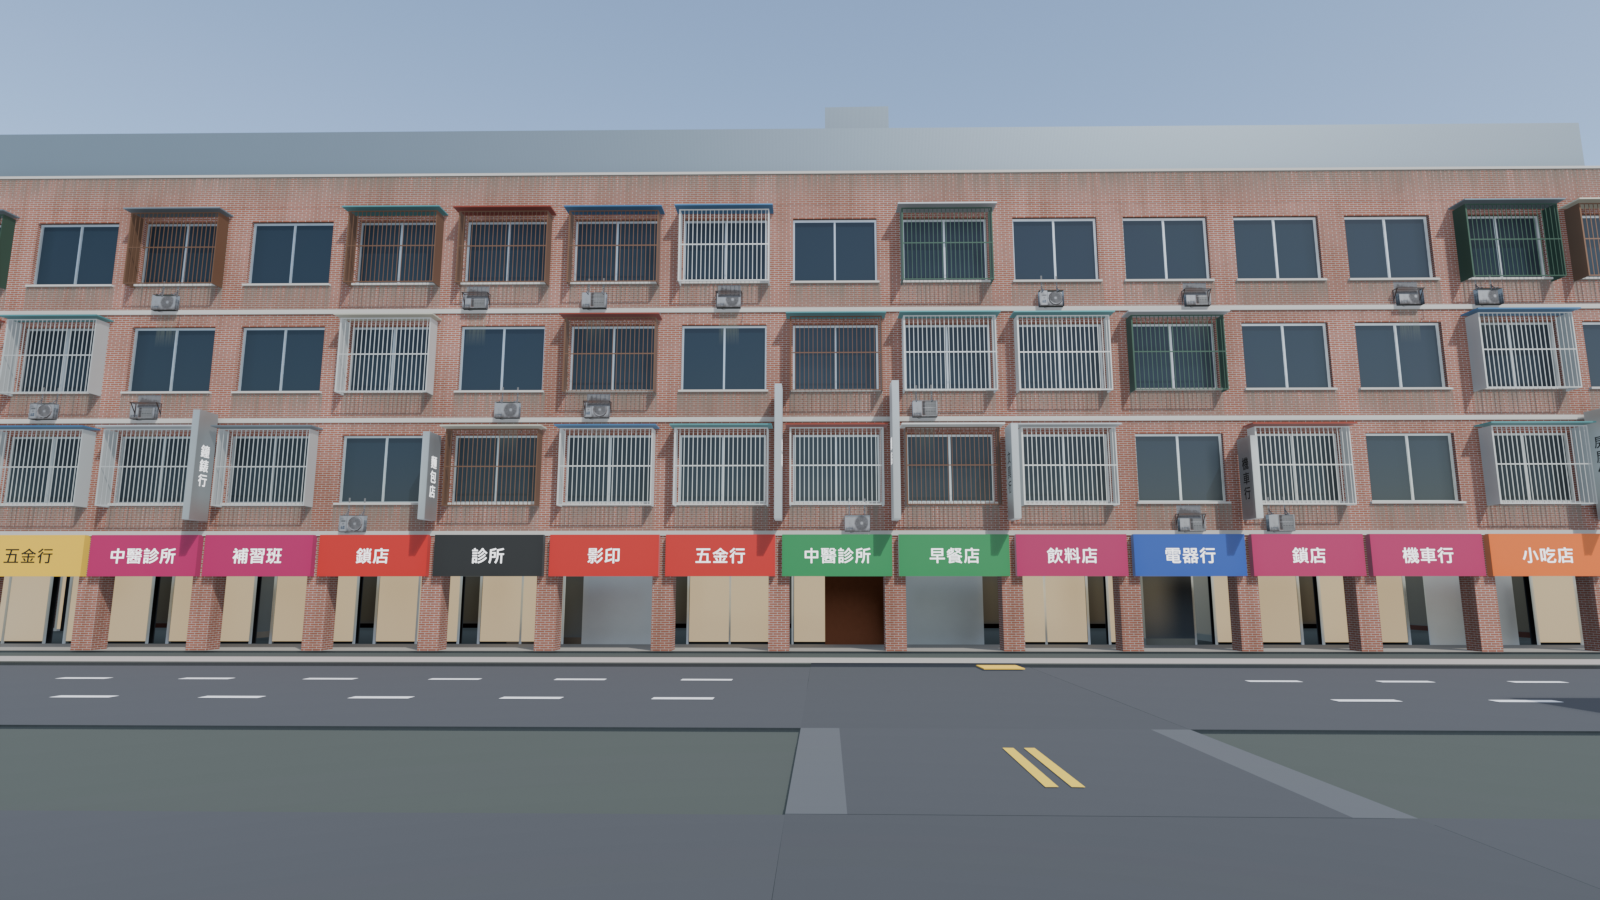
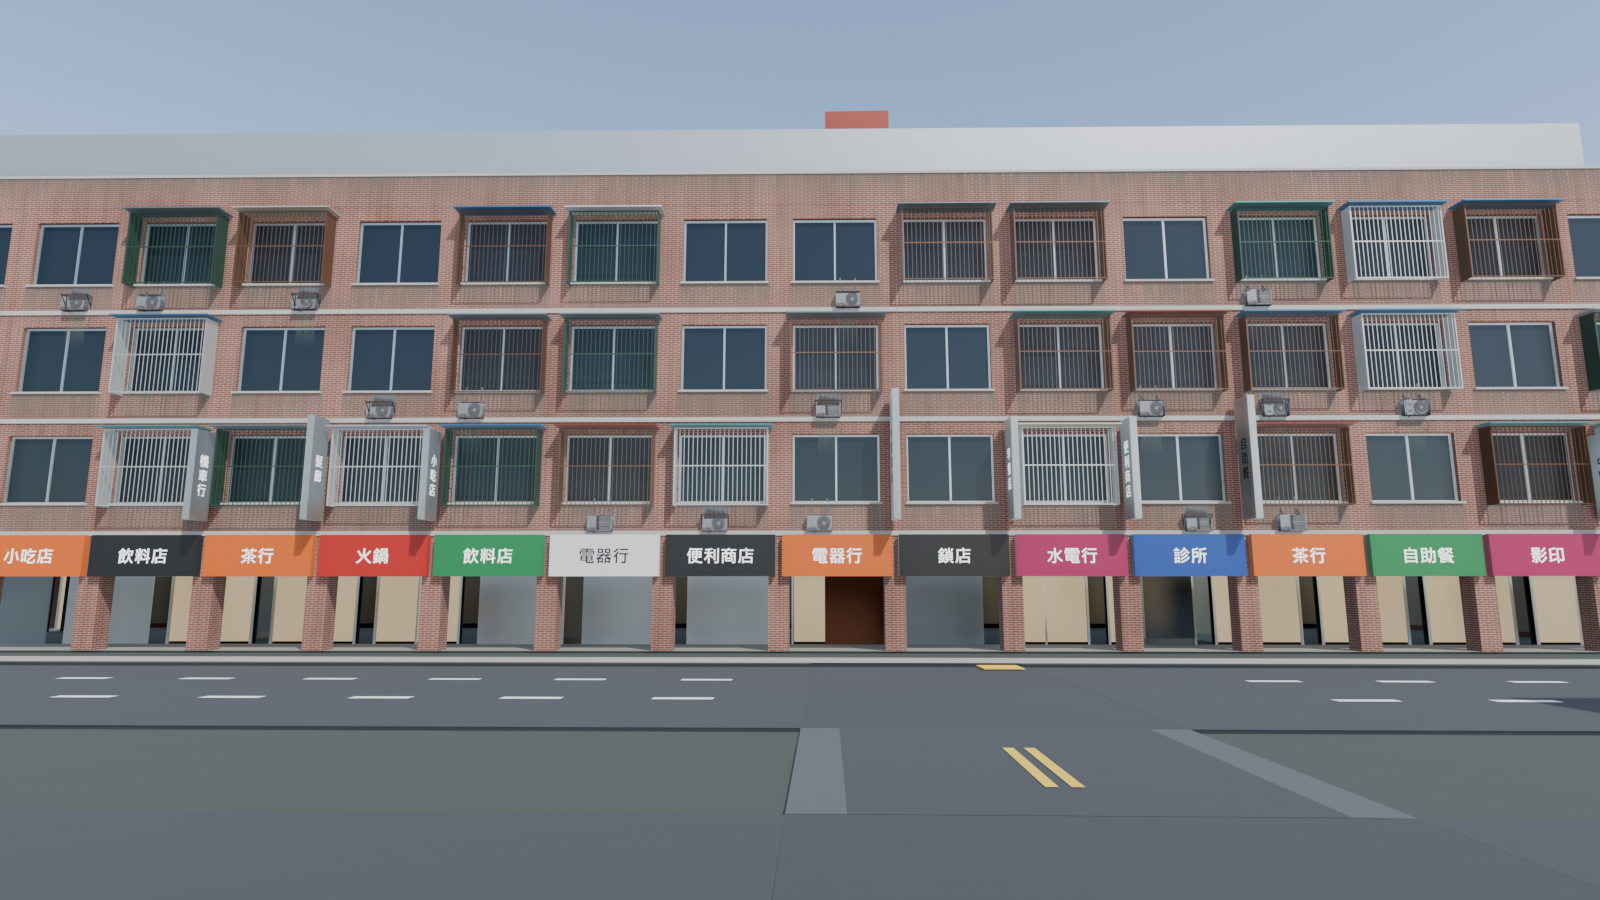
消防局斜對面八千代大樓與永吉路30巷街廓補建
- 八千代大樓（OSM 忠孝經貿廣場）官方 LOD1 缺臨街與西側牆、只剩兩片薄牆，改依官方牆面外緣補建完整塔樓並取代 288806、288716
- 永吉路30巷兩側三列連棟公寓官方只剩樓梯間，依 OSM 外框補建（71巷3弄北側五層、178號南側四層、178號北側五層）；樓梯間保留為屋頂樓梯間
- 東側粉紅磁磚公寓列（290996）缺南側牆，依 OSM 補建並取代
- Blender 鳥瞰預覽 hq_block_aerial

Changed region(s): [[0.0, 0.1244, 1.0, 0.7156]]

diff --git a/dist/index.html b/dist/index.html
@@ -1,1 +1,1 @@
-<!doctype html><html lang="zh-Hant"><head><meta charset="UTF-8"><meta name="viewport" content="width=device-width,initial-scale=1"><title>火場指揮室｜3D部署訓練</title><link rel="stylesheet" href="style.css"><script type="importmap">{"imports":{"three":"./vendor/three.module.js"}}</script></head><body><header><div class="brand"><span class="badge">119</span><div><strong>火場指揮室</strong><small>中隊長部署訓練 / 情境 01</small></div></div><div class="headright"><span id="state">演練準備</span><b id="clock">00:00</b><button id="play" class="primary">開始演練</button><button id="finish">結束檢討</button></div></header><main><aside class="resources"><div class="eyebrow">現場資源</div><h2>車組部署 <span>04</span></h2><p class="muted">選擇車組，再下達任務。</p><div id="units"></div><div class="brief"><p class="note">依提供的2023年街景重建風貌；非現地測繪。停車示意：沿道路配置，保留入口、行穿線與通行空間。實際停車位置須由指揮官依危害、道路及任務確認；此處未設定安全距離。</p><div class="eyebrow">人員識別</div><p>隊員：深藍消防衣<br>小隊長：深藍衣・手臂一圈紅帶<br>分隊長：深藍衣・手臂兩圈紅帶<br>中隊長：黃色消防衣<br>大隊長：深紅消防衣・黃金盔徽</p><p class="note">點「人員近看」可輪流查看五種角色。</p><div class="eyebrow">派遣資訊</div><h3>富錦街風貌・公寓火警</h3><p>富錦街風貌重建（模擬火災戶）<br>報案指出三樓冒煙，可能有人受困。現場情況待確認。</p><div class="tags"><span>住宅</span><span>日間</span><span>單一建物</span></div></div></aside><section class="world"><div class="sceneheading"><div><div class="eyebrow">現場態勢</div><h1>富錦街・公寓火災</h1></div><span class="live">訓練情境</span></div><div id="viewport"><div id="error" hidden>3D場景無法啟動，請使用支援 WebGL 的瀏覽器重新開啟。</div></div><div class="viewcontrols"><button data-view="overview" class="active">鳥瞰</button><button data-view="street">街道</button><button data-view="section">樓層剖面</button><button id="home">重設視角</button><a class="real-map-link" href="taipei-map.html?place=xinyi" target="_blank" rel="noopener">臺北真實圖資</a><a class="real-map-link" href="xinyi-street.html?v=s66" target="_blank" rel="noopener">信義街景漫遊</a><a class="real-map-link" href="xinyi-street.html?v=s66&amp;at=eoc" target="_blank" rel="noopener">災害應變中心</a></div><div class="scenehint">拖曳旋轉 · 滾輪／雙指縮放 · 點選位置標記</div><div class="legend"><span><i style="background:#47c3ff"></i>車組</span><span><i style="background:#ff9c46"></i>可見煙火</span><span><i style="background:#f6dc8d"></i>部署位置</span></div><div class="objective"><span>指揮流程</span><b>確認資訊 → 分派任務 → 接收回報 → 調整部署</b></div></section><aside class="command"><div class="eyebrow">指揮操作</div><h2 id="selectedName">第一車組</h2><label for="task">指派任務</label><select id="task"><option>搜索</option><option>滅火</option><option>供水</option><option>救護</option><option>待命</option></select><label for="location">部署位置</label><select id="location"><option value="front">建物正面</option><option value="rear">建物後側</option><option value="entry">一樓入口</option><option value="floor">三樓梯間</option><option value="water">供水點</option><option value="medical">救護區</option></select><p id="current" class="muted">目前：未指派</p><button id="assign" class="primary wide">下達部署指令</button><p id="feedback" role="status"></p><div class="divider"></div><div class="eyebrow">開口與通風情境</div><label for="ventilation">開口設定</label><select id="ventilation"><option value="0">維持原有開口</option><option value="0.45">增加三樓對外開口</option><option value="1">增加三樓與上方開口</option></select><button id="applyVent" class="wide" disabled>套用通風設定</button><p id="ventState" class="muted">目前：維持原有開口</p><p class="note">增加開口會同時影響燃燒與排煙，煙變淡不等於火勢變小。原型僅將到位執行「滅火」、位於正面或三樓的車組計為有效射水；未模擬水源、流量、風向與門窗位置。</p><div class="divider"></div><div class="eyebrow">情境進度</div><div id="events"></div><p class="note">火煙與任務進度為腳本示意，供指揮討論；不代表火場物理預測。</p></aside><section class="comms"><div class="loghead"><h2>通訊與指揮紀錄</h2><span id="count">0 筆</span></div><div id="logs" aria-live="polite"></div></section></main><dialog id="review"><div class="modalhead"><div><div class="eyebrow">演練回顧</div><h2>指揮決策時間軸</h2></div><button id="close">關閉</button></div><div id="summary"></div><div id="reviewlogs"></div><p class="note">由教官依單位訓練標準講評。本原型不提供戰術正確性評分。</p><div class="actions"><button id="export">下載演練紀錄</button><button id="reset" class="primary">重新演練</button></div></dialog><script type="module" src="app.js?v=weather-all-20261027"></script></body></html>
+<!doctype html><html lang="zh-Hant"><head><meta charset="UTF-8"><meta name="viewport" content="width=device-width,initial-scale=1"><title>火場指揮室｜3D部署訓練</title><link rel="stylesheet" href="style.css"><script type="importmap">{"imports":{"three":"./vendor/three.module.js"}}</script></head><body><header><div class="brand"><span class="badge">119</span><div><strong>火場指揮室</strong><small>中隊長部署訓練 / 情境 01</small></div></div><div class="headright"><span id="state">演練準備</span><b id="clock">00:00</b><button id="play" class="primary">開始演練</button><button id="finish">結束檢討</button></div></header><main><aside class="resources"><div class="eyebrow">現場資源</div><h2>車組部署 <span>04</span></h2><p class="muted">選擇車組，再下達任務。</p><div id="units"></div><div class="brief"><p class="note">依提供的2023年街景重建風貌；非現地測繪。停車示意：沿道路配置，保留入口、行穿線與通行空間。實際停車位置須由指揮官依危害、道路及任務確認；此處未設定安全距離。</p><div class="eyebrow">人員識別</div><p>隊員：深藍消防衣<br>小隊長：深藍衣・手臂一圈紅帶<br>分隊長：深藍衣・手臂兩圈紅帶<br>中隊長：黃色消防衣<br>大隊長：深紅消防衣・黃金盔徽</p><p class="note">點「人員近看」可輪流查看五種角色。</p><div class="eyebrow">派遣資訊</div><h3>富錦街風貌・公寓火警</h3><p>富錦街風貌重建（模擬火災戶）<br>報案指出三樓冒煙，可能有人受困。現場情況待確認。</p><div class="tags"><span>住宅</span><span>日間</span><span>單一建物</span></div></div></aside><section class="world"><div class="sceneheading"><div><div class="eyebrow">現場態勢</div><h1>富錦街・公寓火災</h1></div><span class="live">訓練情境</span></div><div id="viewport"><div id="error" hidden>3D場景無法啟動，請使用支援 WebGL 的瀏覽器重新開啟。</div></div><div class="viewcontrols"><button data-view="overview" class="active">鳥瞰</button><button data-view="street">街道</button><button data-view="section">樓層剖面</button><button id="home">重設視角</button><a class="real-map-link" href="taipei-map.html?place=xinyi" target="_blank" rel="noopener">臺北真實圖資</a><a class="real-map-link" href="xinyi-street.html?v=s67" target="_blank" rel="noopener">信義街景漫遊</a><a class="real-map-link" href="xinyi-street.html?v=s67&amp;at=eoc" target="_blank" rel="noopener">災害應變中心</a></div><div class="scenehint">拖曳旋轉 · 滾輪／雙指縮放 · 點選位置標記</div><div class="legend"><span><i style="background:#47c3ff"></i>車組</span><span><i style="background:#ff9c46"></i>可見煙火</span><span><i style="background:#f6dc8d"></i>部署位置</span></div><div class="objective"><span>指揮流程</span><b>確認資訊 → 分派任務 → 接收回報 → 調整部署</b></div></section><aside class="command"><div class="eyebrow">指揮操作</div><h2 id="selectedName">第一車組</h2><label for="task">指派任務</label><select id="task"><option>搜索</option><option>滅火</option><option>供水</option><option>救護</option><option>待命</option></select><label for="location">部署位置</label><select id="location"><option value="front">建物正面</option><option value="rear">建物後側</option><option value="entry">一樓入口</option><option value="floor">三樓梯間</option><option value="water">供水點</option><option value="medical">救護區</option></select><p id="current" class="muted">目前：未指派</p><button id="assign" class="primary wide">下達部署指令</button><p id="feedback" role="status"></p><div class="divider"></div><div class="eyebrow">開口與通風情境</div><label for="ventilation">開口設定</label><select id="ventilation"><option value="0">維持原有開口</option><option value="0.45">增加三樓對外開口</option><option value="1">增加三樓與上方開口</option></select><button id="applyVent" class="wide" disabled>套用通風設定</button><p id="ventState" class="muted">目前：維持原有開口</p><p class="note">增加開口會同時影響燃燒與排煙，煙變淡不等於火勢變小。原型僅將到位執行「滅火」、位於正面或三樓的車組計為有效射水；未模擬水源、流量、風向與門窗位置。</p><div class="divider"></div><div class="eyebrow">情境進度</div><div id="events"></div><p class="note">火煙與任務進度為腳本示意，供指揮討論；不代表火場物理預測。</p></aside><section class="comms"><div class="loghead"><h2>通訊與指揮紀錄</h2><span id="count">0 筆</span></div><div id="logs" aria-live="polite"></div></section></main><dialog id="review"><div class="modalhead"><div><div class="eyebrow">演練回顧</div><h2>指揮決策時間軸</h2></div><button id="close">關閉</button></div><div id="summary"></div><div id="reviewlogs"></div><p class="note">由教官依單位訓練標準講評。本原型不提供戰術正確性評分。</p><div class="actions"><button id="export">下載演練紀錄</button><button id="reset" class="primary">重新演練</button></div></dialog><script type="module" src="app.js?v=weather-all-20261027"></script></body></html>

diff --git a/dist/xinyi-street.js b/dist/xinyi-street.js
@@ -90,7 +90,7 @@ const zhuangjingIds=new Set(zhuangjingData?.buildingIds??[]);
 const landmarks=await loadLandmarks().catch(()=>[]);for(const a of landmarks)if(a.collider)district.buildings.push(footprintBuilding(a));
 // 逐街精修（building-overrides-xinyi.json）：官方 LOD1 缺漏的量體依 OSM 外框補建（含碰撞與地面高程）。
 const legacyFacades=new URLSearchParams(location.search).get('facades')==='legacy';
-const overrideData=legacyFacades?null:await fetch('assets/building-overrides-xinyi.json?v=26').then(r=>r.ok?r.json():null).catch(()=>null);
+const overrideData=legacyFacades?null:await fetch('assets/building-overrides-xinyi.json?v=28').then(r=>r.ok?r.json():null).catch(()=>null);
 const overrides=overrideIndex(overrideData);applyFills(overrideData,district);
 step('建立地形、建物與道路');
 const ground=buildHeightField(district.buildings,district.bbox);

diff --git a/dist/xinyi-street.html b/dist/xinyi-street.html
@@ -186,6 +186,6 @@ addEventListener('error',function(e){fail(e.message||'檔案無法讀取：'+(e.
 addEventListener('unhandledrejection',function(e){fail(e.reason&&e.reason.message||e.reason);});
 setTimeout(function(){if(!document.getElementById('loading').hidden){var s=document.getElementById('loadStep');s.textContent+='（載入時間較長，手機或網路較慢時可能需要 1 分鐘以上）';}},30000);})();
 </script>
-<script type="module" src="xinyi-street.js?v=s66-hq-opposite-20261106"></script>
+<script type="module" src="xinyi-street.js?v=s67-hq-diagonal-20261106"></script>
 </body>
 </html>

diff --git a/blender/build_xinyi_district.py b/blender/build_xinyi_district.py
@@ -706,6 +706,7 @@ def main():
         ("songyong", (436.0, 540.0, 1.8), (470.0, 440.0, 18.0), 18),
         ("zhongxiao5", (335.0, 788.0, 1.8), (275.0, 832.0, 14.0), 20),
         ("hq_opposite", (372.0, 790.0, 1.8), (372.0, 830.0, 8.0), 20),   # 消防局對面連棟公寓
+        ("hq_block_aerial", (360.0, 745.0, 55.0), (350.0, 835.0, 5.0), 24),   # 消防局對面街廓鳥瞰（量體完整性）
         ("yongji30", (336.0, 818.0, 1.8), (336.0, 880.0, 8.0), 20),
         ("wuxing_facade", (-493.0, -400.0, 1.8), (-481.0, -391.0, 8.0), 20),   # 老公寓立面近看（污漬、管線、冷氣）
     ]
